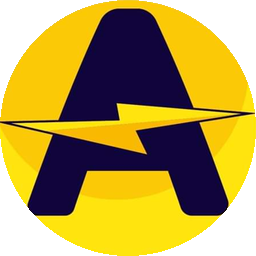
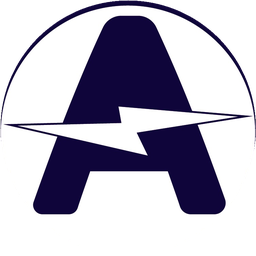
Implement policy validation to prevent silent failures in lateness judgment

diff --git a/static/css/a1.css b/static/css/a1.css
@@ -192,9 +192,11 @@ button, input, select, textarea { font: inherit; color: inherit; }
 .brand-lockup { display: flex; align-items: center; gap: 12px; }
 .brand-lockup img { width: 44px; height: 44px; display: block; }
 .brand-lockup b { font-size: 24px; font-weight: 700; color: #fff; }
-/* The full logo, for light grounds only: its ring text is navy and would
-   disappear on the navy panel. Sized to sit above the form as an identity
-   line, not as a hero — the sign-in is the job of this screen. */
+/* The full lockup, for light grounds only — now because it carries its own
+   navy ground, which would vanish against the navy sign-in panel. (It used
+   to be the opposite reason: the old artwork had navy ring text.) Sized to
+   sit above the form as an identity line, not as a hero — signing in is the
+   job of this screen. */
 .logo-full {
   width: 72px; height: 72px; display: block; margin: 0 auto;
   object-fit: contain;

diff --git a/templates/shell/_document.html b/templates/shell/_document.html
@@ -16,7 +16,7 @@
         href="https://fonts.googleapis.com/css2?family=Inter:wght@400;500;600;700&display=swap"></noscript>
   <link rel="stylesheet" href="{% static 'css/a1.css' %}">
   <link rel="manifest" href="{% url 'manifest' %}">
-  <link rel="apple-touch-icon" href="{% static 'img/a1-mark.png' %}">
+  <link rel="apple-touch-icon" href="{% static 'img/a1-app-icon.png' %}">
   {% block head_extra %}{% endblock %}
 </head>
 <body class="{% block body_class %}{% endblock %}">
